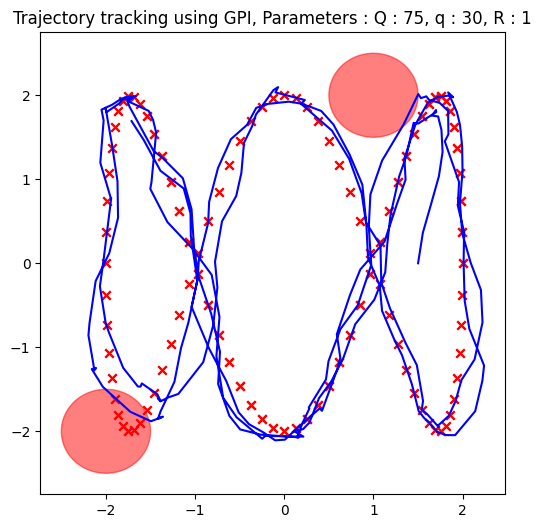
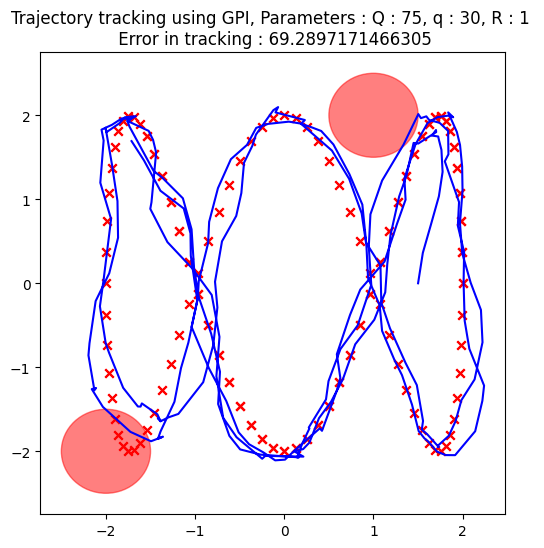
CEC, GPI Controller for trajectory tracking problem

diff --git a/main.py b/main.py
@@ -8,6 +8,11 @@ import itertools as it
 import pickle
 from state_control_space import *
 import matplotlib.pyplot as plt
+import argparse
+parser = argparse.ArgumentParser()
+parser.add_argument('method', help = 'Enter CEC to run the CEC controller, GPI to run the GPI controller')
+args = parser.parse_args()
+algo = args.method
 # Simulation params
 np.random.seed(10)
 time_step = 0.5 # time between steps in seconds
@@ -81,7 +86,7 @@ if __name__ == '__main__':
     cur_state = np.array([x_init, y_init, theta_init])
     cur_iter = 0
     n_v,n_w = 10,10
-    Q,q,R = 30,25,1
+    Q,q,R = 75,30,1
     # filename = f'pi_{Q}_{q}_{R}_obs=0.55.pkl'
     filename = f'./policy/pi_{Q}_{q}_{R}_obs=0.55.pkl'
     # filename = 'pi_PI.pkl'
@@ -118,8 +123,10 @@ if __name__ == '__main__':
         # Generate control input
         # TODO: Replace this simple controller with your own controller
         # control = simple_controller(cur_state, cur_ref[0])
-        # control = casadi_controller(cur_state, cur_ref)
-        control = U[pi[index]]
+        if algo == 'CEC':
+            control,Q,q,R,N = casadi_controller(cur_state, cur_ref)
+        elif algo =='GPI':
+            control = U[pi[index]]
         v = control[0]
         w = control[1]
         v = np.clip(v, v_min, v_max)
@@ -153,8 +160,6 @@ if __name__ == '__main__':
     ref_traj = np.array(ref_traj)
     car_states = np.array(car_states)
     times = np.array(times)
-    algo = 'GPI'
-    # algo = 'CEC'
     fig,ax = plt.subplots(figsize = (6,6))
     circles = []
     for obs in obstacles:
@@ -164,8 +169,13 @@ if __name__ == '__main__':
     # print(f'ref traj : {ref_traj[:,0]}')
     ax.scatter(ref_traj[:,0], ref_traj[:,1], marker='x', c='r')
     ax.plot(car_states[:,0], car_states[:,1], c='b')
-    plt.title(f'Trajectory tracking using {algo}, Parameters : Q : {Q}, q : {q}, R : {R} \n Error in tracking : {error_total}')
-    plt.savefig(f'./plots/{algo}_Q{Q}_q{q}_R{R}_obs0.55.png', bbox_inches = 'tight')
+    if algo == 'CEC':
+        plt.title(f'Trajectory tracking using {algo}, Parameters : Q : {Q}, q : {q}, R : {R} \n Time Horizon : {N} Error in tracking : {error_total}')
+        plt.savefig(f'./plots/{algo}_Q{Q}_q{q}_R{R}_N{N}obs0.55.png', bbox_inches = 'tight')
+    else:
+        plt.title(f'Trajectory tracking using {algo}, Parameters : Q : {Q}, q : {q}, R : {R} \n Error in tracking : {error_total}')
+        plt.savefig(f'./plots/{algo}_Q{Q}_q{q}_R{R}_obs0.55.png', bbox_inches = 'tight')
+    
     plt.show(block = True)
     
-    visualize(car_states, ref_traj, obstacles, times, time_step, algo = 'GPI', Q= Q,q = q,R = R, save=True)
+    visualize(car_states, ref_traj, obstacles, times, time_step, algo = algo, Q= Q,q = q,R = R, save=True)

diff --git a/controller.py b/controller.py
@@ -3,9 +3,10 @@ from casadi import *
 
 
 def casadi_controller(cur_state, ref):
-     Q = 10*np.eye(2)
-     q = 10
-     R = 5 * np.eye(2)
+     Q,q,R = 7,5,2
+     Q_p = Q*np.eye(2)
+     q_p = q 
+     R_p = R * np.eye(2)
      cur_ref = ref[0]
      error_x = cur_state[0] - cur_ref[0]
      error_y = cur_state[1] - cur_ref[1]
@@ -40,7 +41,7 @@ def casadi_controller(cur_state, ref):
      opts = {'ipopt.print_level': 0, 'print_time': 0, 'ipopt.sb': 'yes'}
      opti.solver('ipopt', opts)
      sol = opti.solve()
-     return sol.value(U)[:,0]
+     return sol.value(U)[:,0], Q,q,R,N
 
 
 #Add the freespace constraint for the position 
